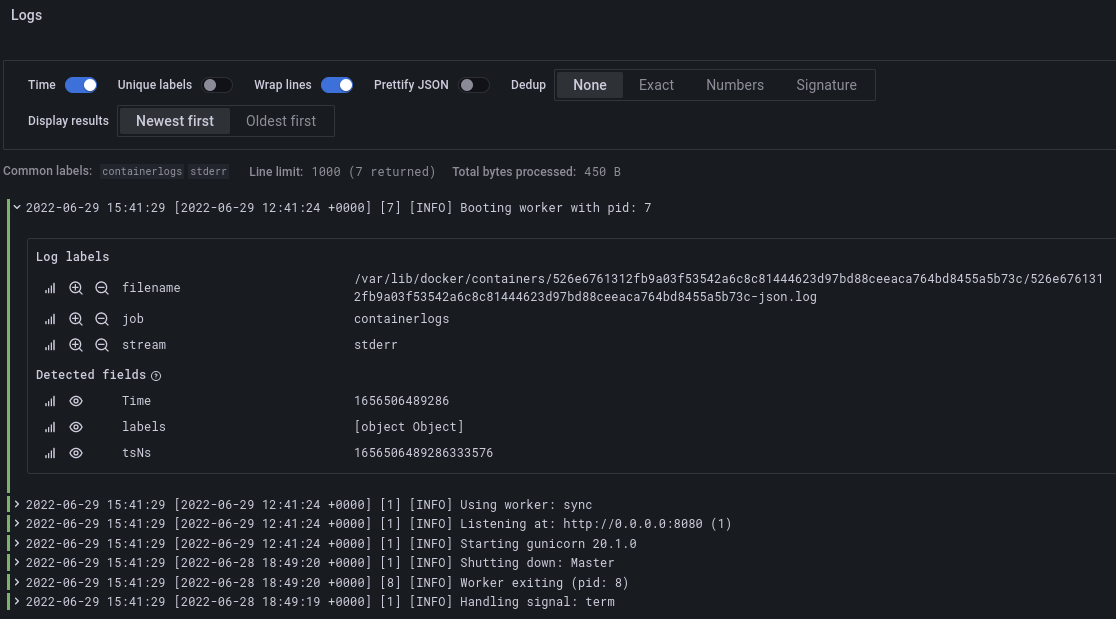
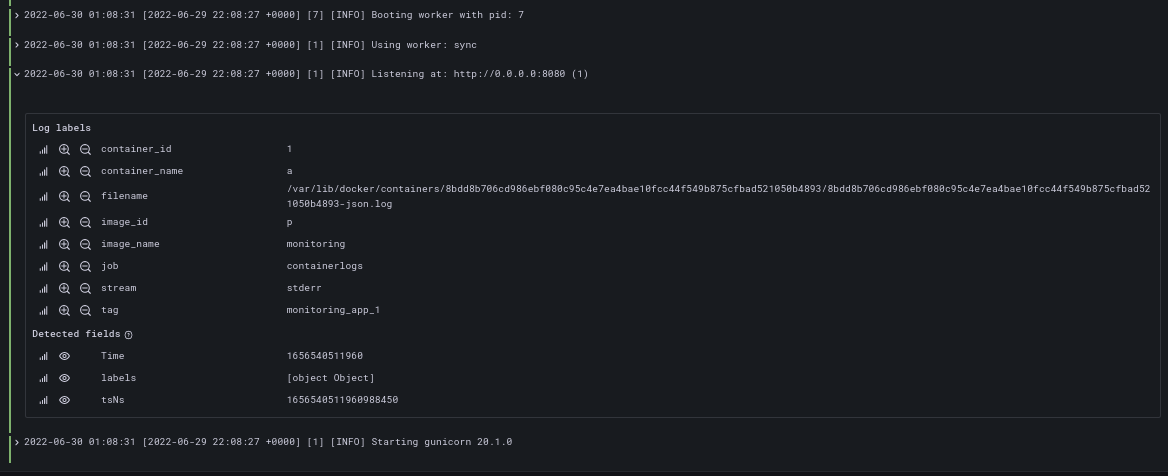
Monitoring Updates

diff --git a/docs/7-logging-and-monitoring.md b/docs/7-logging-and-monitoring.md
@@ -62,44 +62,65 @@
 
 ### 3.2. Exporting Metrics
 
-- An HTTP endpoint for application metrics need to be exposed by the application for scraping by prometheus.
-- We can define our own metrics and export them using client libraries for [Python](https://github.com/prometheus/client_python) and [NodeJS](https://github.com/siimon/prom-client), or use  existing exporters like [prometheus-flask-exporter](https://github.com/rycus86/prometheus_flask_exporter) for Python app and [swagger-stats](https://github.com/slanatech/swagger-stats) for NodeJS app.
+- An HTTP endpoint for application metrics need to be exposed by the application for scraping by Prometheus.
+- We can define our own metrics and export them using [client libraries for Python and NodeJS](https://prometheus.io/docs/instrumenting/clientlibs/), or use 3rd party exporters like [prometheus-flask-exporter](https://github.com/rycus86/prometheus_flask_exporter) for Python app and [swagger-stats](https://github.com/slanatech/swagger-stats) for NodeJS app.
 
 ### 3.3. Preparing Environment
 
 - Write a `docker-compose.yml` for deploying the application with the logging and monitoring stack in a single network [[ref.](https://github.com/grafana/loki/blob/main/production/docker-compose.yaml)].
-- Write configuration files for Promtail [[ref.](https://grafana.com/docs/loki/latest/clients/promtail/configuration/)], Loki [[ref.](https://grafana.com/docs/loki/latest/configuration/examples/)], and prometheus [[ref.](https://github.com/prometheus/prometheus/blob/main/documentation/examples/prometheus.yml)].
-  - Loki configuration specifies internal settings for Loki server and where to store logs (locally or remotely).
-  - Promtail configuration contains information on the Promtail server, where positions are stored, and how to scrape logs from files.
-  - Prometheus configuration defines target endpoints to scrape and how often to scrape them.
+- Write configuration files for Loki [[ref.](https://grafana.com/docs/loki/latest/configuration/examples/)], Promtail [[ref.](https://grafana.com/docs/loki/latest/clients/promtail/configuration/)], and Prometheus [[ref.](https://github.com/prometheus/prometheus/blob/main/documentation/examples/prometheus.yml)] and copy them to containers or use a volume.
+  - **Loki configuration** specifies internal settings for Loki server and where to store logs (locally or remotely).
+  - **Promtail configuration** contains information on the Promtail server, where positions are stored, and how to scrape logs from files.
+  - **Prometheus configuration** defines target endpoints to scrape and how often to scrape them.
+- Run the 3 containers with a `command` that specifies config file location.
 
 
 ### 3.4. Demo
 
 - Run `docker-compose up` and verify that all containers are running.
 
+- Verify the application is running at http://locaohost:8080 
+
+- Verify Prometheus UI is accessible at http://locaohost:9090 and all targets are up in status tab, you can also run queries with autocompletion.
+
+  ![monitoring-1](./images/monitoring-1.png)
+
 - Verify Grafana UI is accessible at http://localhost:3000
 
   - Default credentials: `admin:admin`
 
-- Configuration &rarr; Data source &rarr; Add data source &rarr; Loki &rarr; URL = `http://loki:3100` &rarr; Save and test.
+- Configuration &rarr; Data source &rarr; Add data source
 
-  ![monitoring-1](./images/monitoring-1.png)
+  - &rarr; Loki &rarr; URL = `http://loki:3100` &rarr; Save and test.
 
-- Explore &rarr; Add query &rarr; Code &rarr; Write LogQL query or use UI builder.
+  - &rarr; Prometheus &rarr; URL = `http://prometheus:9090` &rarr; Save and test.
+    - We can also add built-in Prometheus stats dashboard.
 
-  > - Example query that shows application logs `{job="containerlogs",filename="/var/lib/docker/containers/526e6761312f*/526e6761312f*-json.log"}`
-  > - Container ID can be found by running `docker ps`
+- Explore &rarr; Loki &rarr; Add query &rarr; Write PromQL query or use UI builder.
 
-  ![monitoring-2](./images/monitoring-2.png)
+  - Example query that shows application logs `{tag="monitoring_app_1"}`
+
+    ![monitoring-2](./images/monitoring-2.png)
+
+- Explore &rarr; Loki &rarr; Add query &rarr; Write PromQL query or use UI builder.
+
+  - Example query showing endpoint responses: `sum by(status) (flask_http_request_total)`
+
+    ![monitoring-3](./images/monitoring-3.png)
+
+- Now we can create interesting dashboards from data collected by Prometheus and Loki and export them as reusable JSON.
+
+  ![monitoring-4](./images/monitoring-4.png)
 
 
 
 ## 4. Best Practices
 
+- Official guides: [Grafana](https://grafana.com/docs/grafana/latest/best-practices/), [Loki](https://grafana.com/docs/loki/latest/best-practices/), [Prometheus](https://prometheus.io/docs/practices/).
 - Create descriptive logs that follow a common format.
 - Implement log rotation to save memory and disk space.
 - Create simple, easy to interpret dashboards with meaningful names.
-- Make sure alerts are only triggered when attention is needed.
+- When configuring alerts, try to have them triggered only when attention is needed.
 - Avoid unnecessary dashboard reloading to reduce network load.
+- Metric names for Prometheus should have a (single-word) application prefix relevant to the domain the metric belongs to.
 
